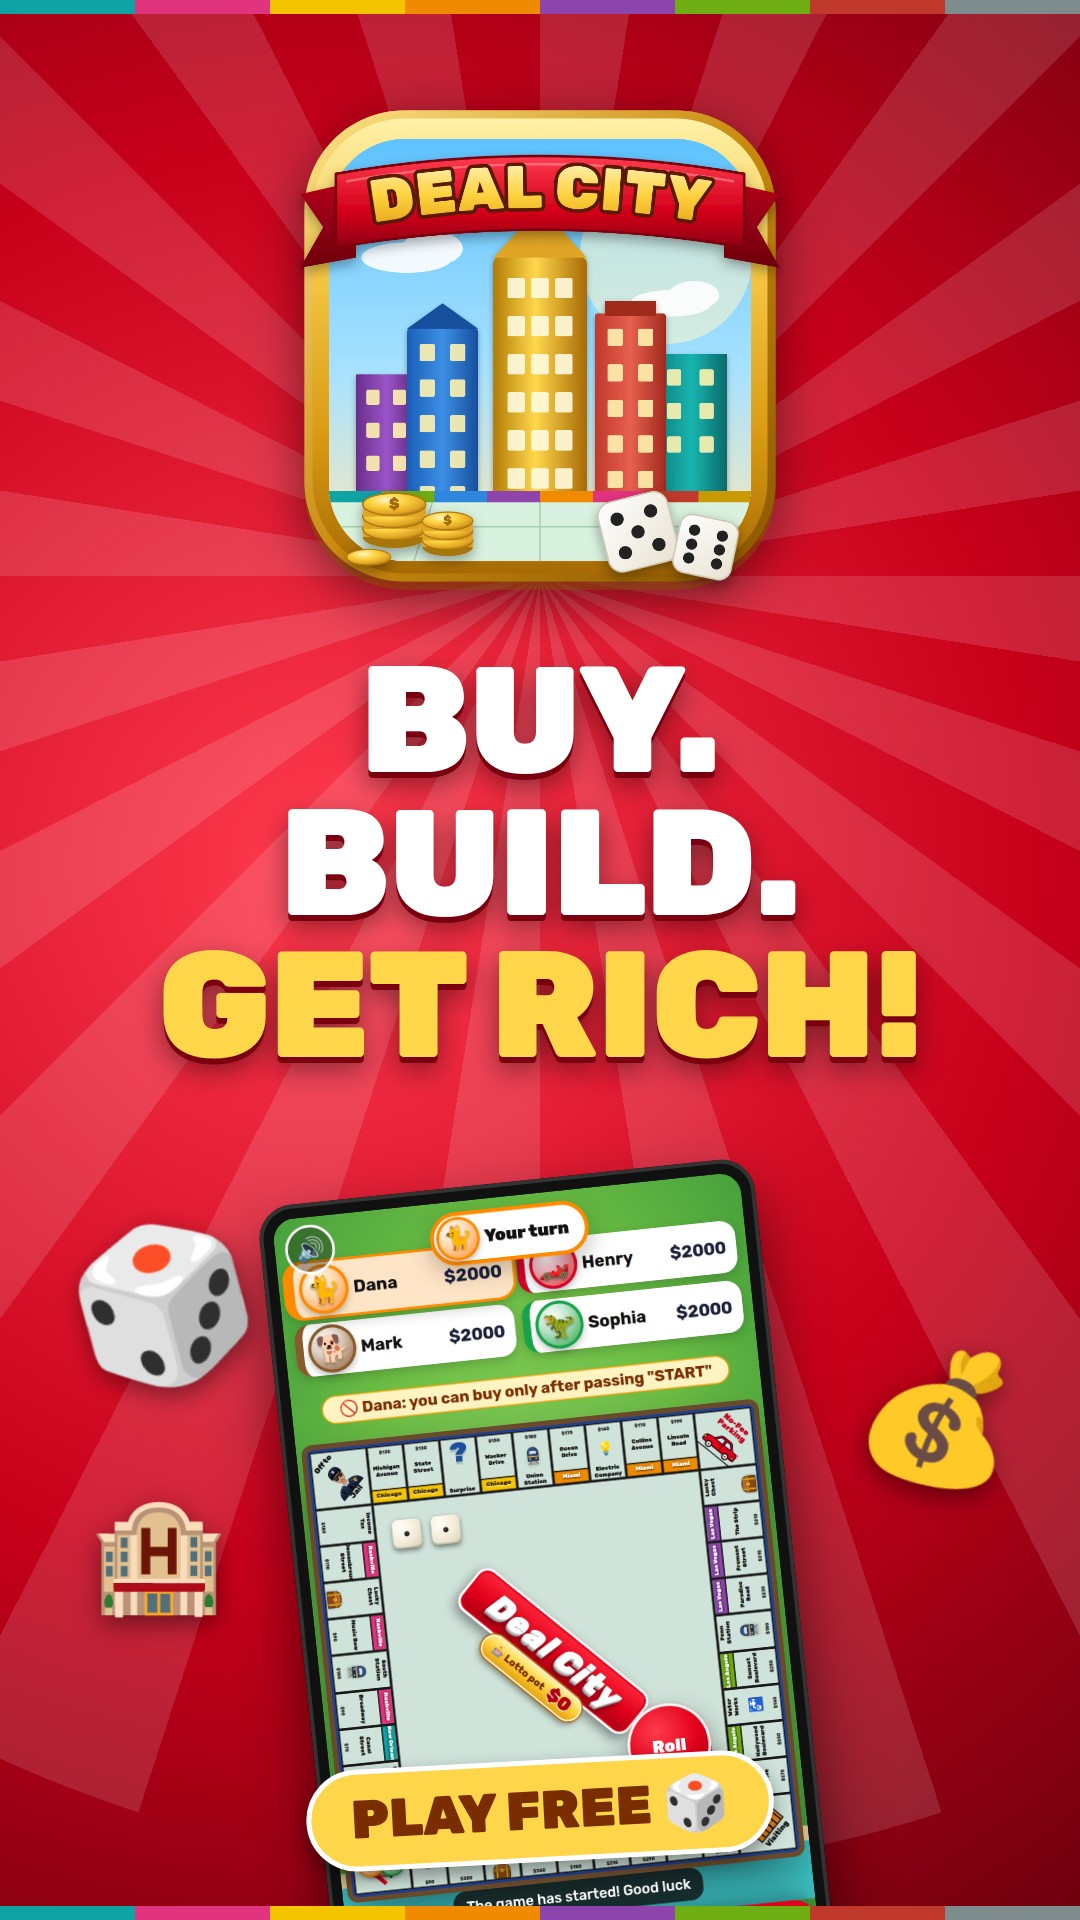
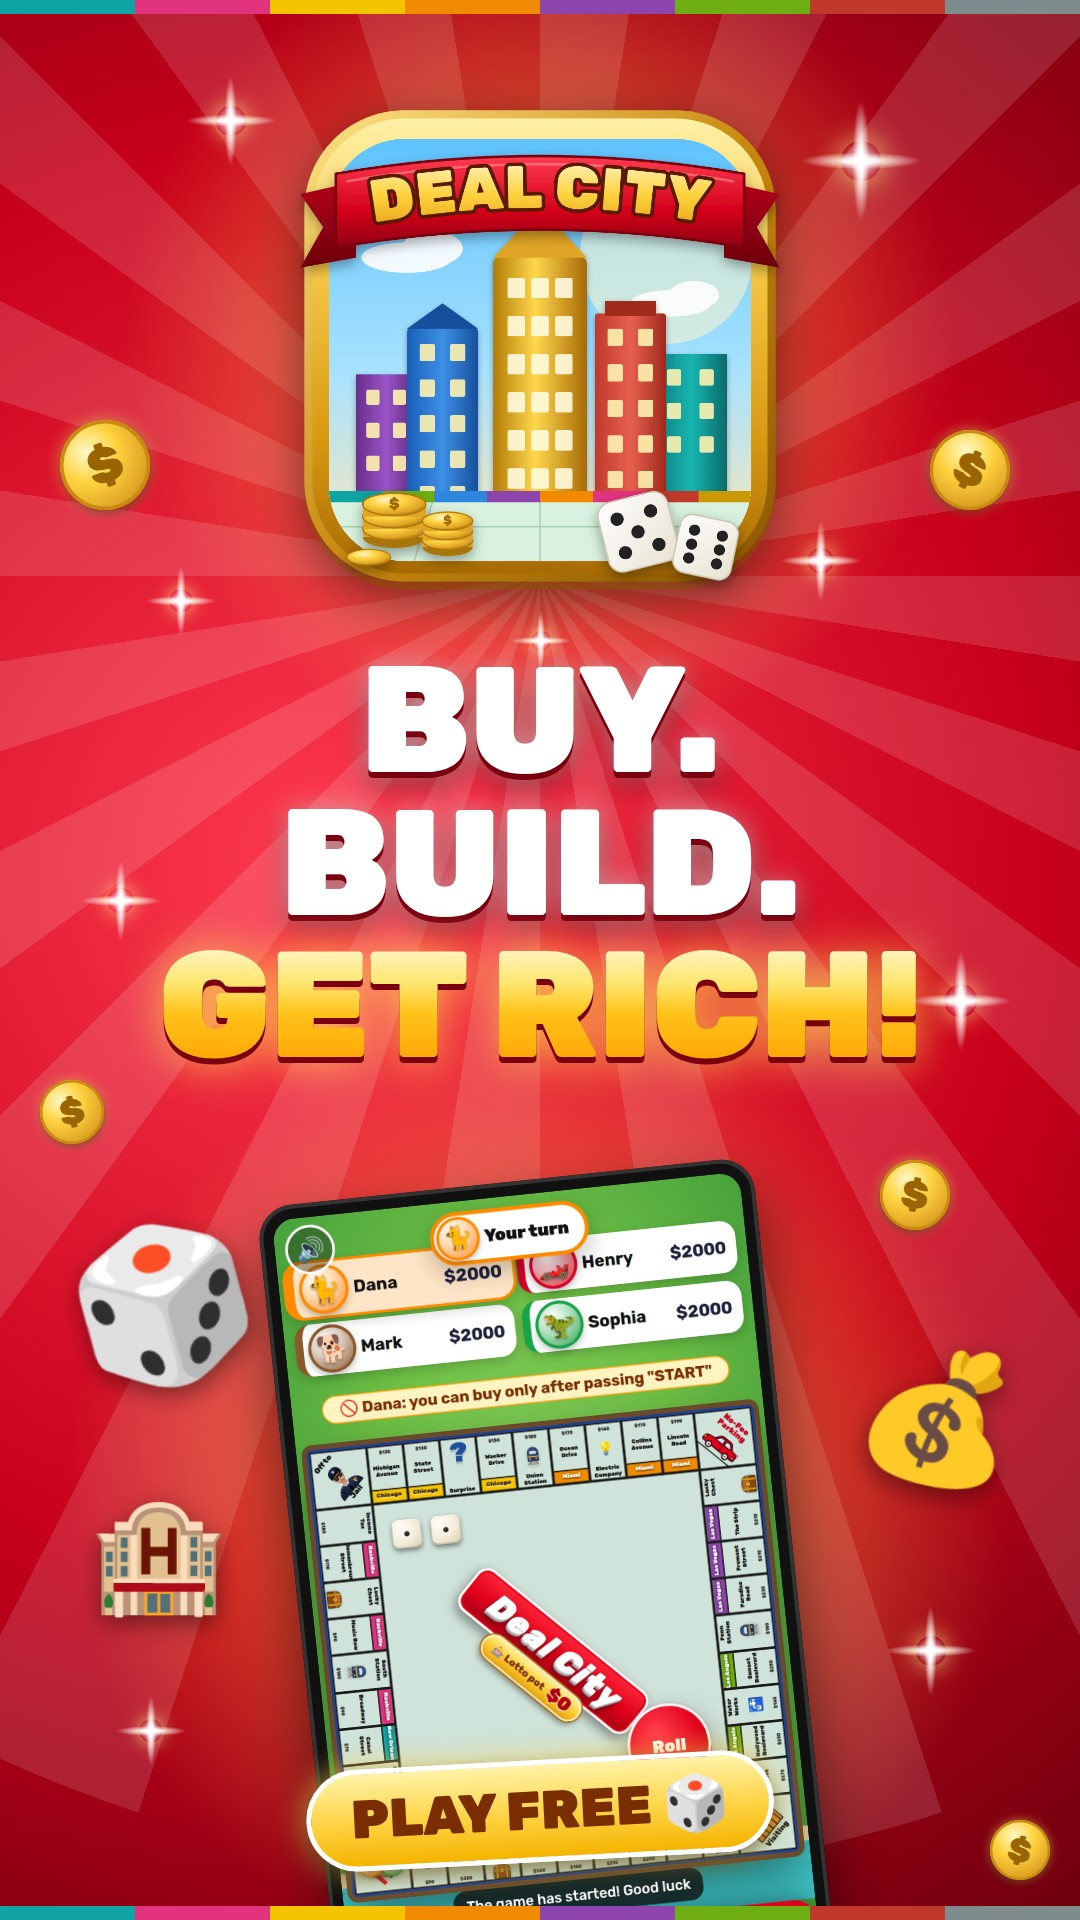
Thumbnails: more shine (gold gloss title, glows, sparkles, coins)
Claude-Session: https://claude.ai/code/session_01U7kxiau7BTo1gBj5RHrhSx

diff --git a/store/brand-src/thumb.html b/store/brand-src/thumb.html
@@ -10,7 +10,17 @@ body { margin: 0; }
 .phone img { width: 100%; display: block; border-radius: 22px; }
 .title { position: absolute; color: #fff; font-weight: 900; line-height: .95; text-shadow: 0 6px 0 #7a0010, 0 12px 28px rgba(0,0,0,.45); letter-spacing: -.01em; }
 .title span { display: block; }
-.title .y { color: #FFD54A; }
+.title .y { background: linear-gradient(180deg, #fffbe0 0%, #ffe46b 35%, #ffc21a 55%, #ff9d00 100%); -webkit-background-clip: text; background-clip: text; color: transparent;
+  text-shadow: none; filter: drop-shadow(0 6px 0 #7a0010) drop-shadow(0 0 22px rgba(255,214,80,.75)); }
+.title span:not(.y) { text-shadow: 0 6px 0 #7a0010, 0 0 26px rgba(255,255,255,.45), 0 12px 28px rgba(0,0,0,.45); }
+.glow { position: absolute; border-radius: 50%; background: radial-gradient(circle, rgba(255,240,170,.85) 0%, rgba(255,200,80,.35) 35%, rgba(255,200,80,0) 70%); }
+.spark { position: absolute; width: 1px; height: 1px; }
+.spark::before, .spark::after { content: ''; position: absolute; left: 50%; top: 50%; background: radial-gradient(closest-side, #fff, rgba(255,255,255,.9) 30%, rgba(255,240,180,0)); transform: translate(-50%, -50%); }
+.spark::before { width: var(--s); height: calc(var(--s) / 7); }
+.spark::after { width: calc(var(--s) / 7); height: var(--s); }
+.spark i { position: absolute; left: 50%; top: 50%; width: calc(var(--s) / 3); height: calc(var(--s) / 3); border-radius: 50%; transform: translate(-50%, -50%); background: radial-gradient(circle, #fff, rgba(255,255,255,0) 70%); box-shadow: 0 0 calc(var(--s) / 4) rgba(255,230,140,.9); }
+.coin { position: absolute; border-radius: 50%; background: radial-gradient(circle at 35% 30%, #fff8c8, #ffd23f 35%, #e0a526 70%, #a8740b); box-shadow: inset 0 0 0 .07em #c98a10, 0 .08em .2em rgba(0,0,0,.4), 0 0 .3em rgba(255,220,100,.6); display: flex; align-items: center; justify-content: center; color: #9a6400; font-weight: 900; }
+.tag { background: linear-gradient(180deg, #fff3a8 0%, #ffd54a 50%, #f5b400 100%) !important; box-shadow: 0 8px 18px rgba(0,0,0,.4), 0 0 30px rgba(255,214,80,.8) !important; }
 .tag { position: absolute; background: #FFD54A; color: #7a2e00; font-weight: 900; border-radius: 999px; box-shadow: 0 8px 18px rgba(0,0,0,.4); border: 5px solid #fff; white-space: nowrap; }
 .em { position: absolute; filter: drop-shadow(0 8px 12px rgba(0,0,0,.45)); line-height: 1; }
 </style></head><body><div id="c"></div>
@@ -37,5 +47,18 @@ c.innerHTML = band('top') + band('bottom') +
        <img class="logo" src="logo-full.png" style="width:290px;left:660px;top:390px;transform:rotate(-6deg)">
        <div class="em" style="font-size:110px;left:700px;top:40px;transform:rotate(-14deg)">🎲</div>
        <div class="em" style="font-size:96px;left:1150px;top:560px;transform:rotate(10deg)">💰</div>`);
+const spark = (x, y, sz) => `<div class="spark" style="left:${x}px;top:${y}px;--s:${sz}px;z-index:4"><i></i></div>`;
+const coin = (x, y, sz, r) => `<div class="coin" style="left:${x}px;top:${y}px;width:${sz}px;height:${sz}px;font-size:${sz * 0.55}px;transform:rotate(${r}deg);z-index:3">$</div>`;
+const glow = (x, y, r) => `<div class="glow" style="left:${x - r}px;top:${y - r}px;width:${2 * r}px;height:${2 * r}px"></div>`;
+const extra = V
+  ? glow(540, 340, 420) + glow(540, 1500, 480) +
+    [[230, 120, 90], [860, 160, 120], [820, 560, 80], [180, 600, 70], [960, 1000, 100], [120, 900, 80], [930, 1650, 90], [150, 1730, 70], [540, 640, 60]].map((a) => spark(...a)).join('') +
+    [[60, 420, 90, -20], [930, 430, 80, 25], [880, 1160, 70, 10], [40, 1080, 64, -10], [990, 1820, 60, 15]].map((a) => coin(...a)).join('')
+  : glow(800, 470, 330) + glow(1080, 330, 330) +
+    [[640, 140, 70], [1230, 60, 80], [600, 640, 60], [860, 340, 55], [1240, 470, 70], [480, 110, 50], [1000, 690, 50]].map((a) => spark(...a)).join('') +
+    [[590, 250, 70, -15], [1180, 290, 56, 20], [610, 470, 52, 10], [880, 630, 48, -12]].map((a) => coin(...a)).join('');
+c.insertAdjacentHTML('beforeend', extra);
+// glows sit under the art, sparkles and coins on top
+c.querySelectorAll('.glow').forEach((g) => c.insertBefore(g, c.querySelector('.rays').nextSibling));
 window.ready = document.fonts.ready;
 </script></body></html>
